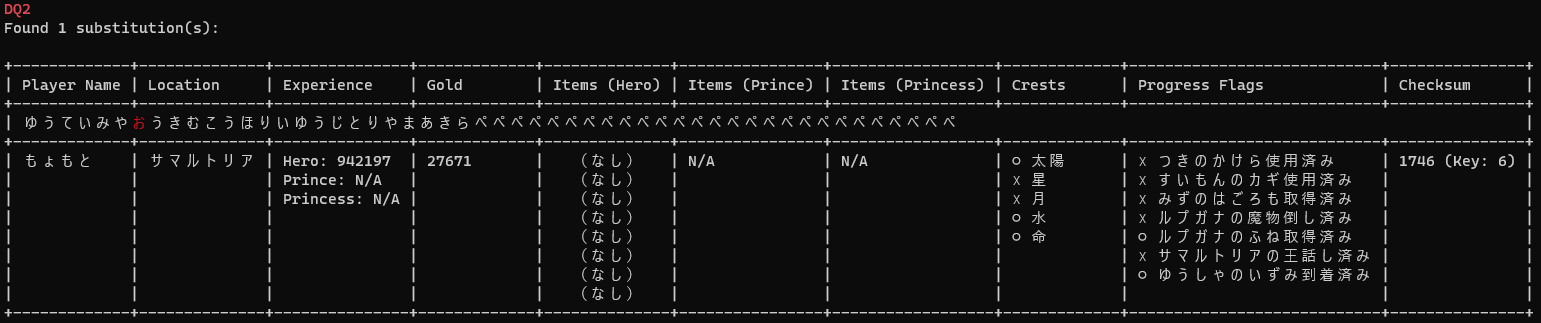
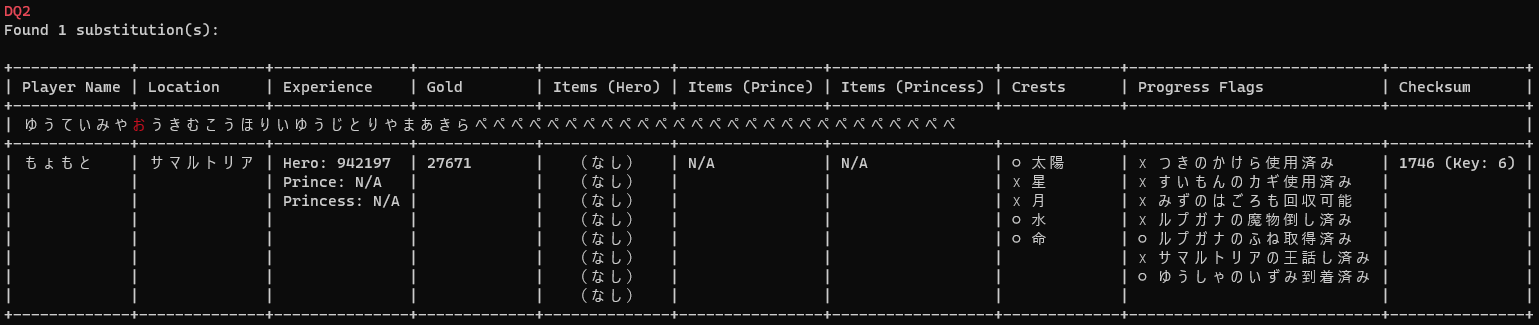
Correct みずのはごろも flag description

diff --git a/src/dq2.rs b/src/dq2.rs
@@ -99,7 +99,7 @@ pub(crate) const CREST_TABLE: [&str; 5] = ["命", "水", "月", "星", "太陽"]
 pub(crate) const PROGRESS_FLAG_TABLE: [&str; 7] = [
     "つきのかけら使用済み",
     "すいもんのカギ使用済み",
-    "みずのはごろも取得済み",
+    "みずのはごろも回収可能",
     "ルプガナの魔物倒し済み",
     "ルプガナのふね取得済み",
     "サマルトリアの王話し済み",

diff --git a/README.md b/README.md
@@ -22,7 +22,7 @@
   * DQ2
     1. つきのかけら使用済み
     2. すいもんのカギ使用済み
-    3. みずのはごろも取得済み
+    3. みずのはごろも回収可能
     4. ルプガナの魔物倒し済み
     5. ルプガナのふね取得済み
     6. サマルトリアの王話し済み
